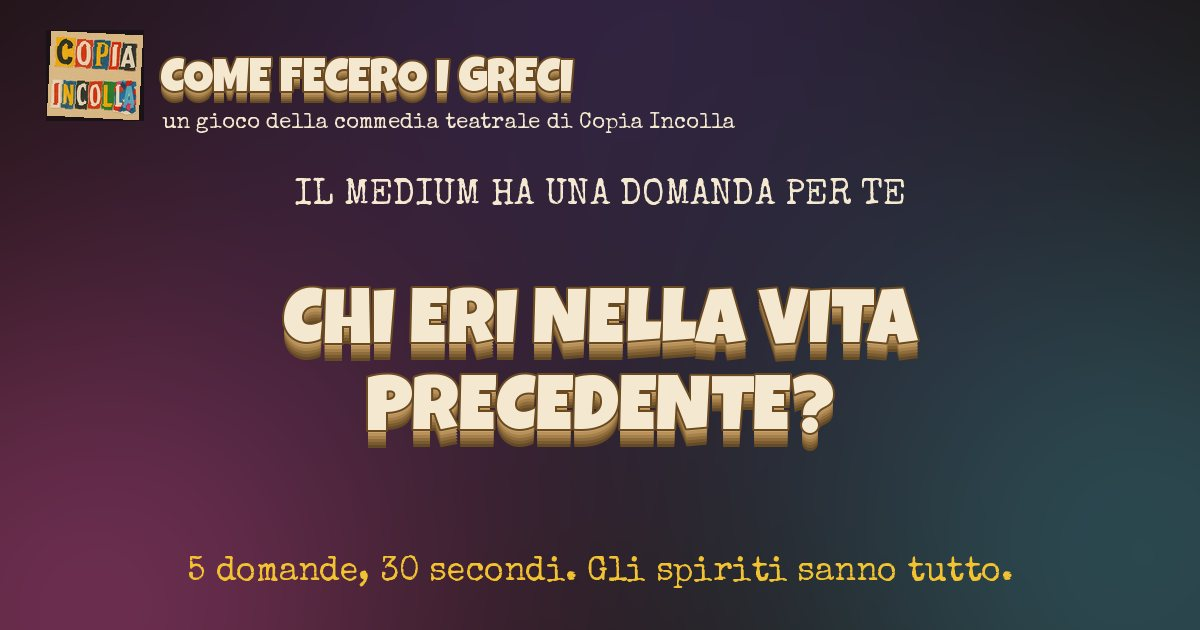
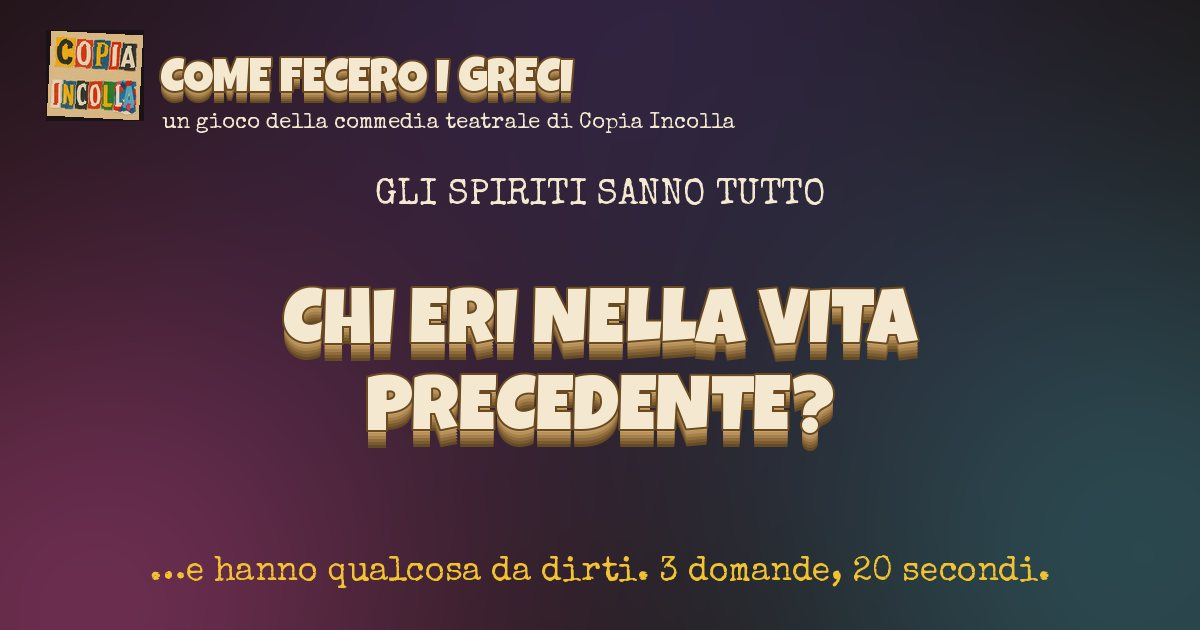
3 domande da 5 risposte, condivisione 'Invialo su WhatsApp', indirizzo del risultato conservato nella barra, anteprima generale più invitante
Claude-Session: https://claude.ai/code/session_01Pu8WZG2iky3wAHoMJ2Mhs4

Changed region(s): [[0.1233, 0.8746, 0.8942, 0.9349], [0.2467, 0.2714, 0.7708, 0.3317]]

diff --git a/index.html b/index.html
@@ -5,11 +5,11 @@
 <meta name="viewport" content="width=device-width, initial-scale=1.0, viewport-fit=cover, user-scalable=no">
 <meta name="theme-color" content="#0b0705">
 <title>Chi eri nella vita precedente? 🔮</title>
-<meta name="description" content="5 domande, 30 secondi. Gli spiriti sanno tutto. Come fecero i Greci, una commedia di Copia Incolla.">
+<meta name="description" content="3 domande, 20 secondi. Gli spiriti sanno chi eri nella vita precedente. Un gioco di Come fecero i Greci, commedia di Copia Incolla.">
 <meta property="og:type" content="website">
 <meta property="og:url" content="https://giangit85.github.io/Come-fecero-i-greci/">
 <meta property="og:title" content="Chi eri nella vita precedente? 🔮">
-<meta property="og:description" content="5 domande, 30 secondi. Gli spiriti sanno tutto.">
+<meta property="og:description" content="Gli spiriti sanno chi eri… e hanno qualcosa da dirti 👀 3 domande, 20 secondi.">
 <meta property="og:image" content="https://giangit85.github.io/Come-fecero-i-greci/assets/anteprima.jpg">
 <meta property="og:image:width" content="1200">
 <meta property="og:image:height" content="630">
@@ -125,8 +125,8 @@
 <section id="inizio" class="schermata attiva">
   <div id="amico" class="amico" style="display:none"></div>
   <h1 class="titolo">CHI ERI NELLA<br>VITA PRECEDENTE?</h1>
-  <p class="sotto">5 domande. Gli spiriti sanno tutto.</p>
-  <button id="btnInizia" class="bottone">Scoprilo in 30 secondi 🔮</button>
+  <p class="sotto">3 domande. Gli spiriti sanno tutto.</p>
+  <button id="btnInizia" class="bottone">Scoprilo in 20 secondi 🔮</button>
   <div class="firma"><img src="assets/logo-copia-incolla.jpg" alt=""><span>Un gioco di <b>Come fecero i Greci</b><br>commedia teatrale di Copia Incolla</span></div>
 </section>
 
@@ -158,8 +158,8 @@
       <img class="locandina" src="assets/locandina.jpg" alt="Locandina di Come fecero i Greci">
       <p class="sinossi"><b>Come fecero i Greci</b>, una commedia di Copia Incolla.<br>Spie italiane degli anni '40, tutte reincarnate, in una missione impossibile tra sedute spiritiche, travestimenti e gelati.</p>
     </div>
-    <p class="sfida">Scopri chi erano i tuoi amici:</p>
-    <a id="btnWhatsapp" class="bottone whatsapp" target="_blank" rel="noopener">Sfida un amico su WhatsApp</a>
+    <p class="sfida">Scopri cosa dicono gli spiriti dei tuoi amici:</p>
+    <a id="btnWhatsapp" class="bottone whatsapp" target="_blank" rel="noopener">Invialo su WhatsApp</a>
     <button id="btnRifai" class="link">Rifai il quiz</button>
   </div>
 </section>
@@ -167,8 +167,8 @@
 <!-- Invito a condividere quando si torna dal modulo di prenotazione -->
 <div id="toast" class="toast">
   <button class="chiudi" id="chiudiToast" aria-label="Chiudi">×</button>
-  <p><b>Posto prenotato?</b> 🎉<br>Ora scopri chi erano i tuoi amici!</p>
-  <a id="btnWhatsapp2" class="bottone whatsapp" target="_blank" rel="noopener">Sfida un amico su WhatsApp</a>
+  <p><b>Posto prenotato?</b> 🎉<br>Ora scopri cosa dicono gli spiriti dei tuoi amici!</p>
+  <a id="btnWhatsapp2" class="bottone whatsapp" target="_blank" rel="noopener">Invialo su WhatsApp</a>
 </div>
 
 <script>
@@ -199,8 +199,9 @@
   const r = parseInt(new URLSearchParams(location.search).get("r"), 10);
   const amico = (r >= 1 && r <= RISULTATI.length) ? RISULTATI[r - 1] : null;
   if (amico) {
+    try { history.replaceState(null, "", `r/${r}.html`); } catch (_) {}
     const a = $("amico"); a.style.display = "";
-    a.innerHTML = `Un tuo amico nella vita precedente era <b>${amico}</b>…<br>e gli spiriti hanno detto qualcosa anche su di te 🔒<br>Rispondi alle 5 domande per scoprirlo.`;
+    a.innerHTML = `Un tuo amico nella vita precedente era <b>${amico}</b>…<br>e gli spiriti hanno detto qualcosa anche su di te 🔒<br>Rispondi alle 3 domande per scoprirlo.`;
   }
   $("btnPrenota").href = PRENOTA;
   $("quando").textContent = QUANDO; $("dove").textContent = DOVE;

diff --git a/quiz.js b/quiz.js
@@ -2,11 +2,9 @@
 // Le stesse risposte danno sempre lo stesso risultato.
 // Se cambi un risultato, rigenera anche le immagini di anteprima (cartella assets/r).
 window.DOMANDE = [
-  { testo: "Cosa ordini al bar?", risposte: ["Un caffè, al volo", "Un cappuccino, con calma", "Quello che prende chi paga"] },
-  { testo: "Il tuo posto preferito a una festa?", risposte: ["Al centro della pista", "Vicino al buffet", "Sul divano, a osservare tutti"] },
-  { testo: "Ti perdi in una città sconosciuta. Tu…", risposte: ["Chiedo al primo che passa", "Seguo il mio istinto", "Mi siedo e aspetto che mi trovino"] },
-  { testo: "Il tuo difetto più simpatico?", risposte: ["Arrivo sempre in ritardo", "Parlo troppo", "Non so tenere un segreto"] },
-  { testo: "Cosa porteresti su un'isola deserta?", risposte: ["Un buon libro", "Un mazzo di carte", "Un cappello elegante"] }
+  { testo: "Cosa ordini al bar?", risposte: ["Un caffè, al volo", "Un cappuccino, con calma", "Una spremuta: sono salutista", "Quello che prende chi paga", "Niente, sono qui per chiacchierare"] },
+  { testo: "Il tuo posto preferito a una festa?", risposte: ["Al centro della pista", "Vicino al buffet", "Sul divano, a osservare tutti", "In cucina con i padroni di casa", "Vicino alla porta, pronto ad andarmene"] },
+  { testo: "Il tuo difetto più simpatico?", risposte: ["Arrivo sempre in ritardo", "Parlo troppo", "Non so tenere un segreto", "Dico sempre \"ancora cinque minuti\"", "Mi perdo anche col navigatore"] }
 ];
 
 window.RISULTATI = [
@@ -112,11 +110,11 @@ window.RISULTATI = [
   "un primo attore che si inchinava anche agli applausi degli altri"
 ];
 
-// Da risposte (5 numeri da 0 a 2) a risultato (da 1 a 100).
-// Le 243 combinazioni vengono "mescolate" in modo fisso: tutti i 100 risultati sono raggiungibili.
+// Da risposte (3 numeri da 0 a 4) a risultato (da 1 a 100).
+// Le 125 combinazioni vengono "mescolate" in modo fisso: tutti i 100 risultati sono raggiungibili.
 window.calcolaRisultato = risposte => {
-  const indice = risposte.reduce((n, r) => n * 3 + r, 0);   // 0..242
-  return ((indice * 37 + 11) % 243) % 100 + 1;
+  const indice = risposte.reduce((n, r) => n * 5 + r, 0);   // 0..124
+  return ((indice * 37 + 11) % 125) % 100 + 1;
 };
 
 // ---------- Legami tra due vite precedenti ----------
